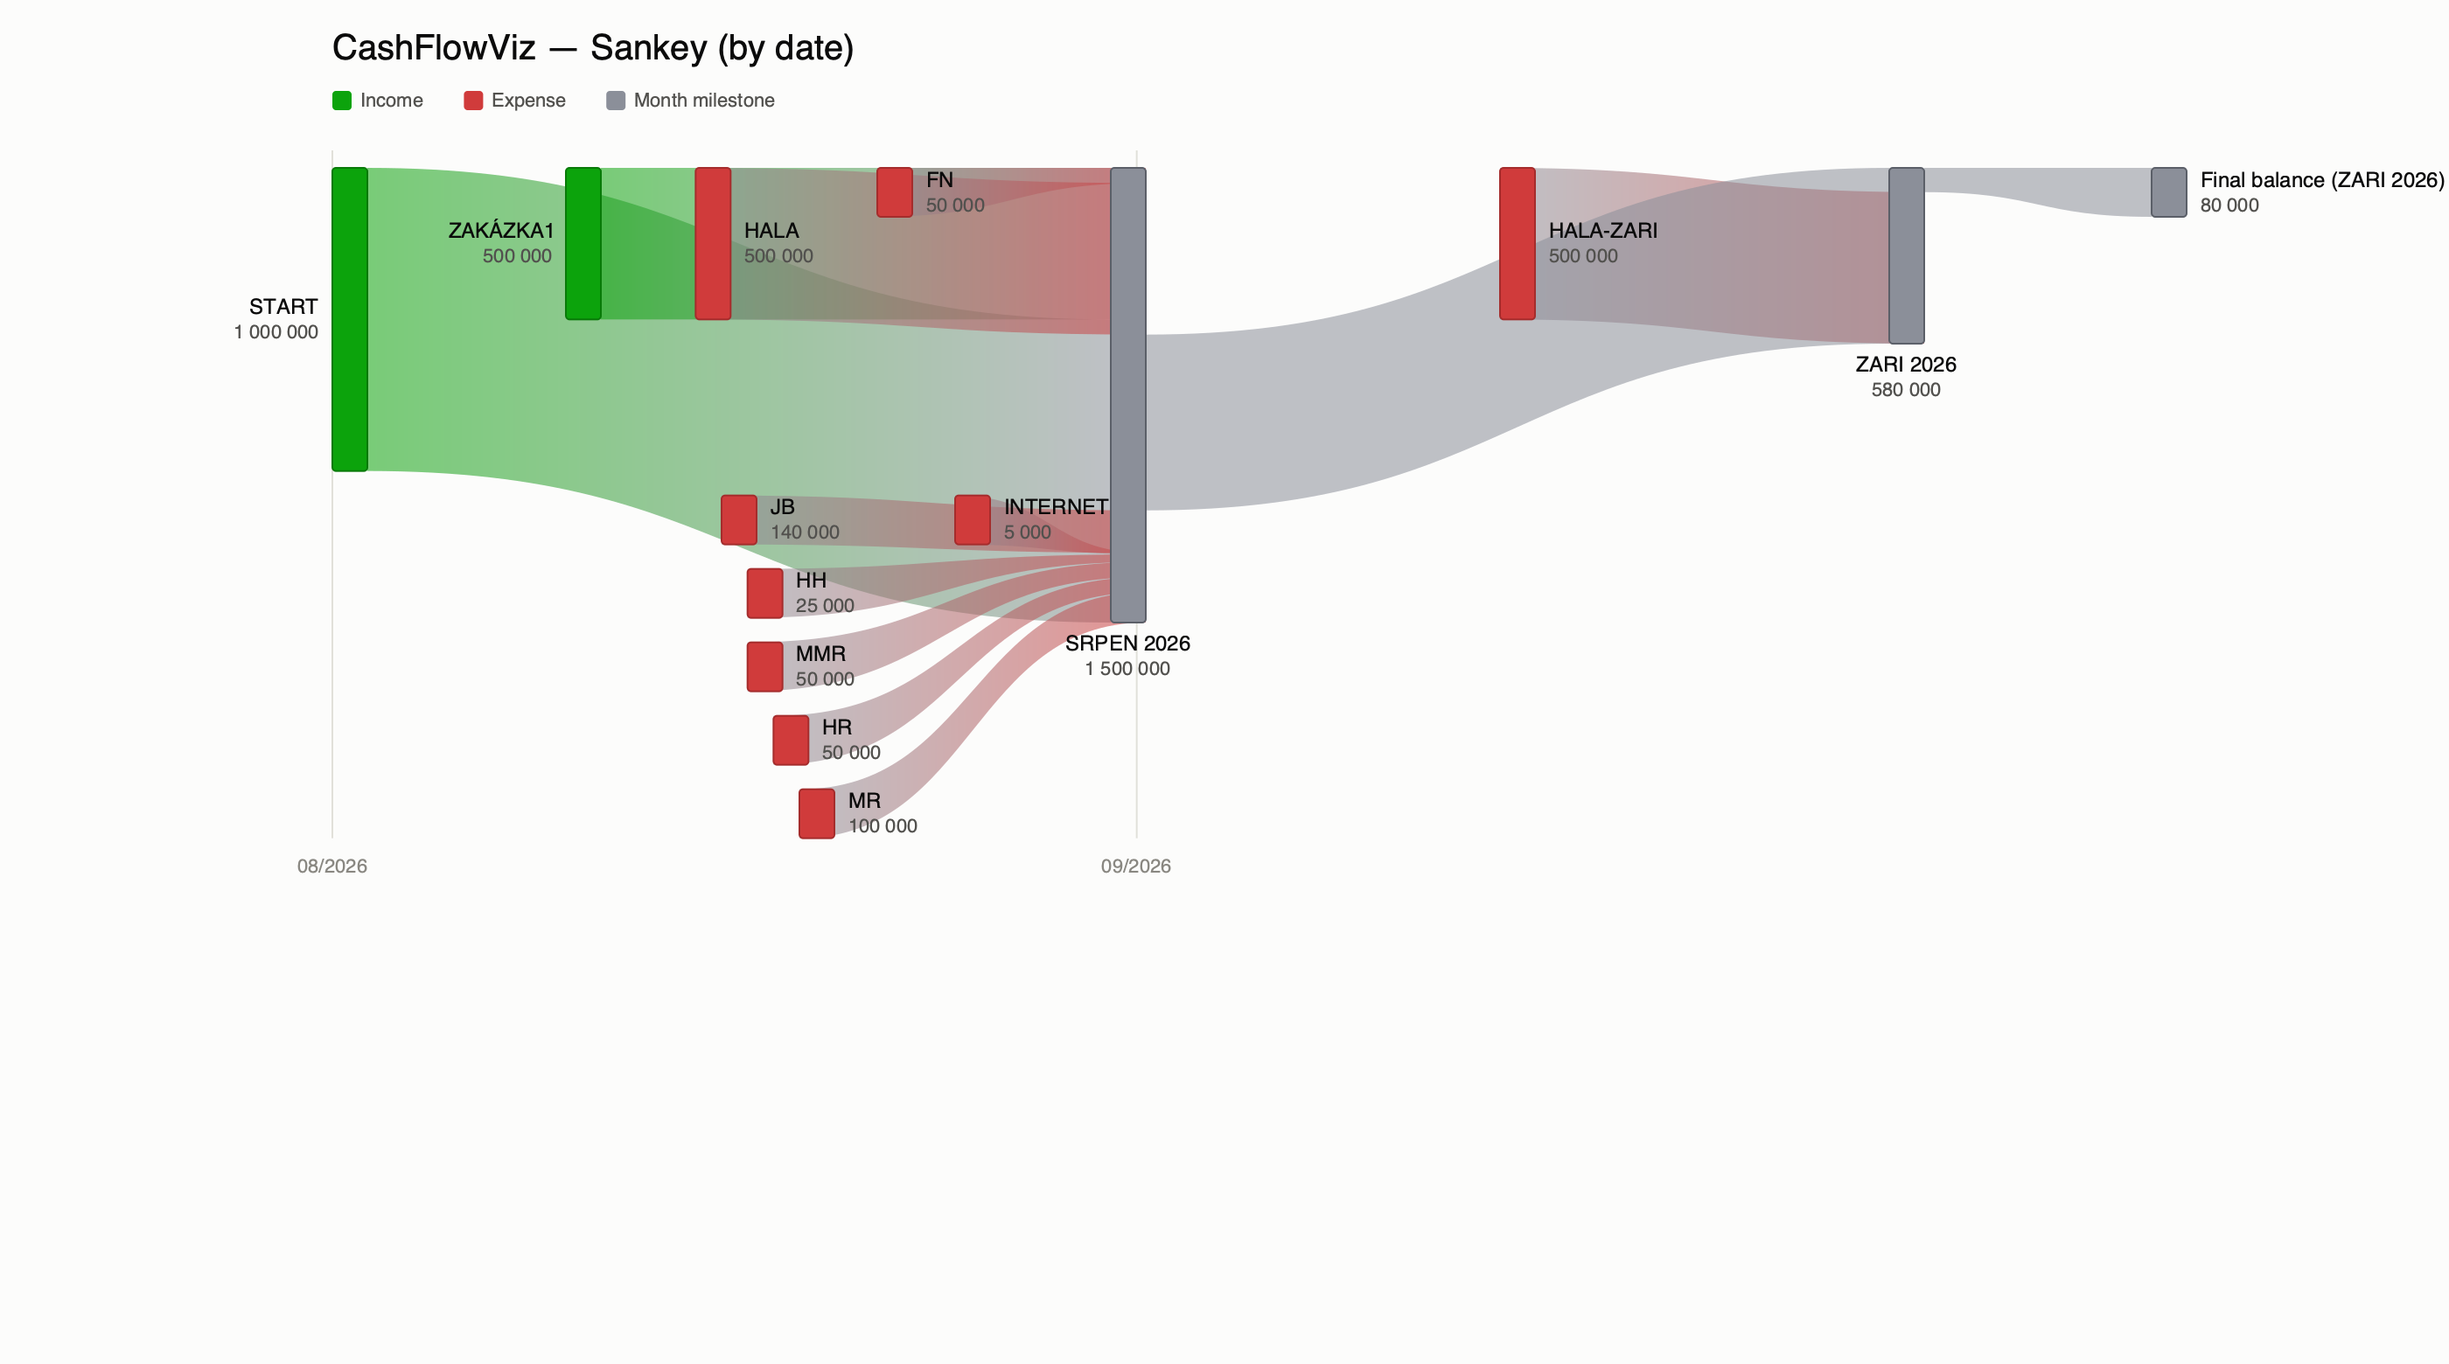
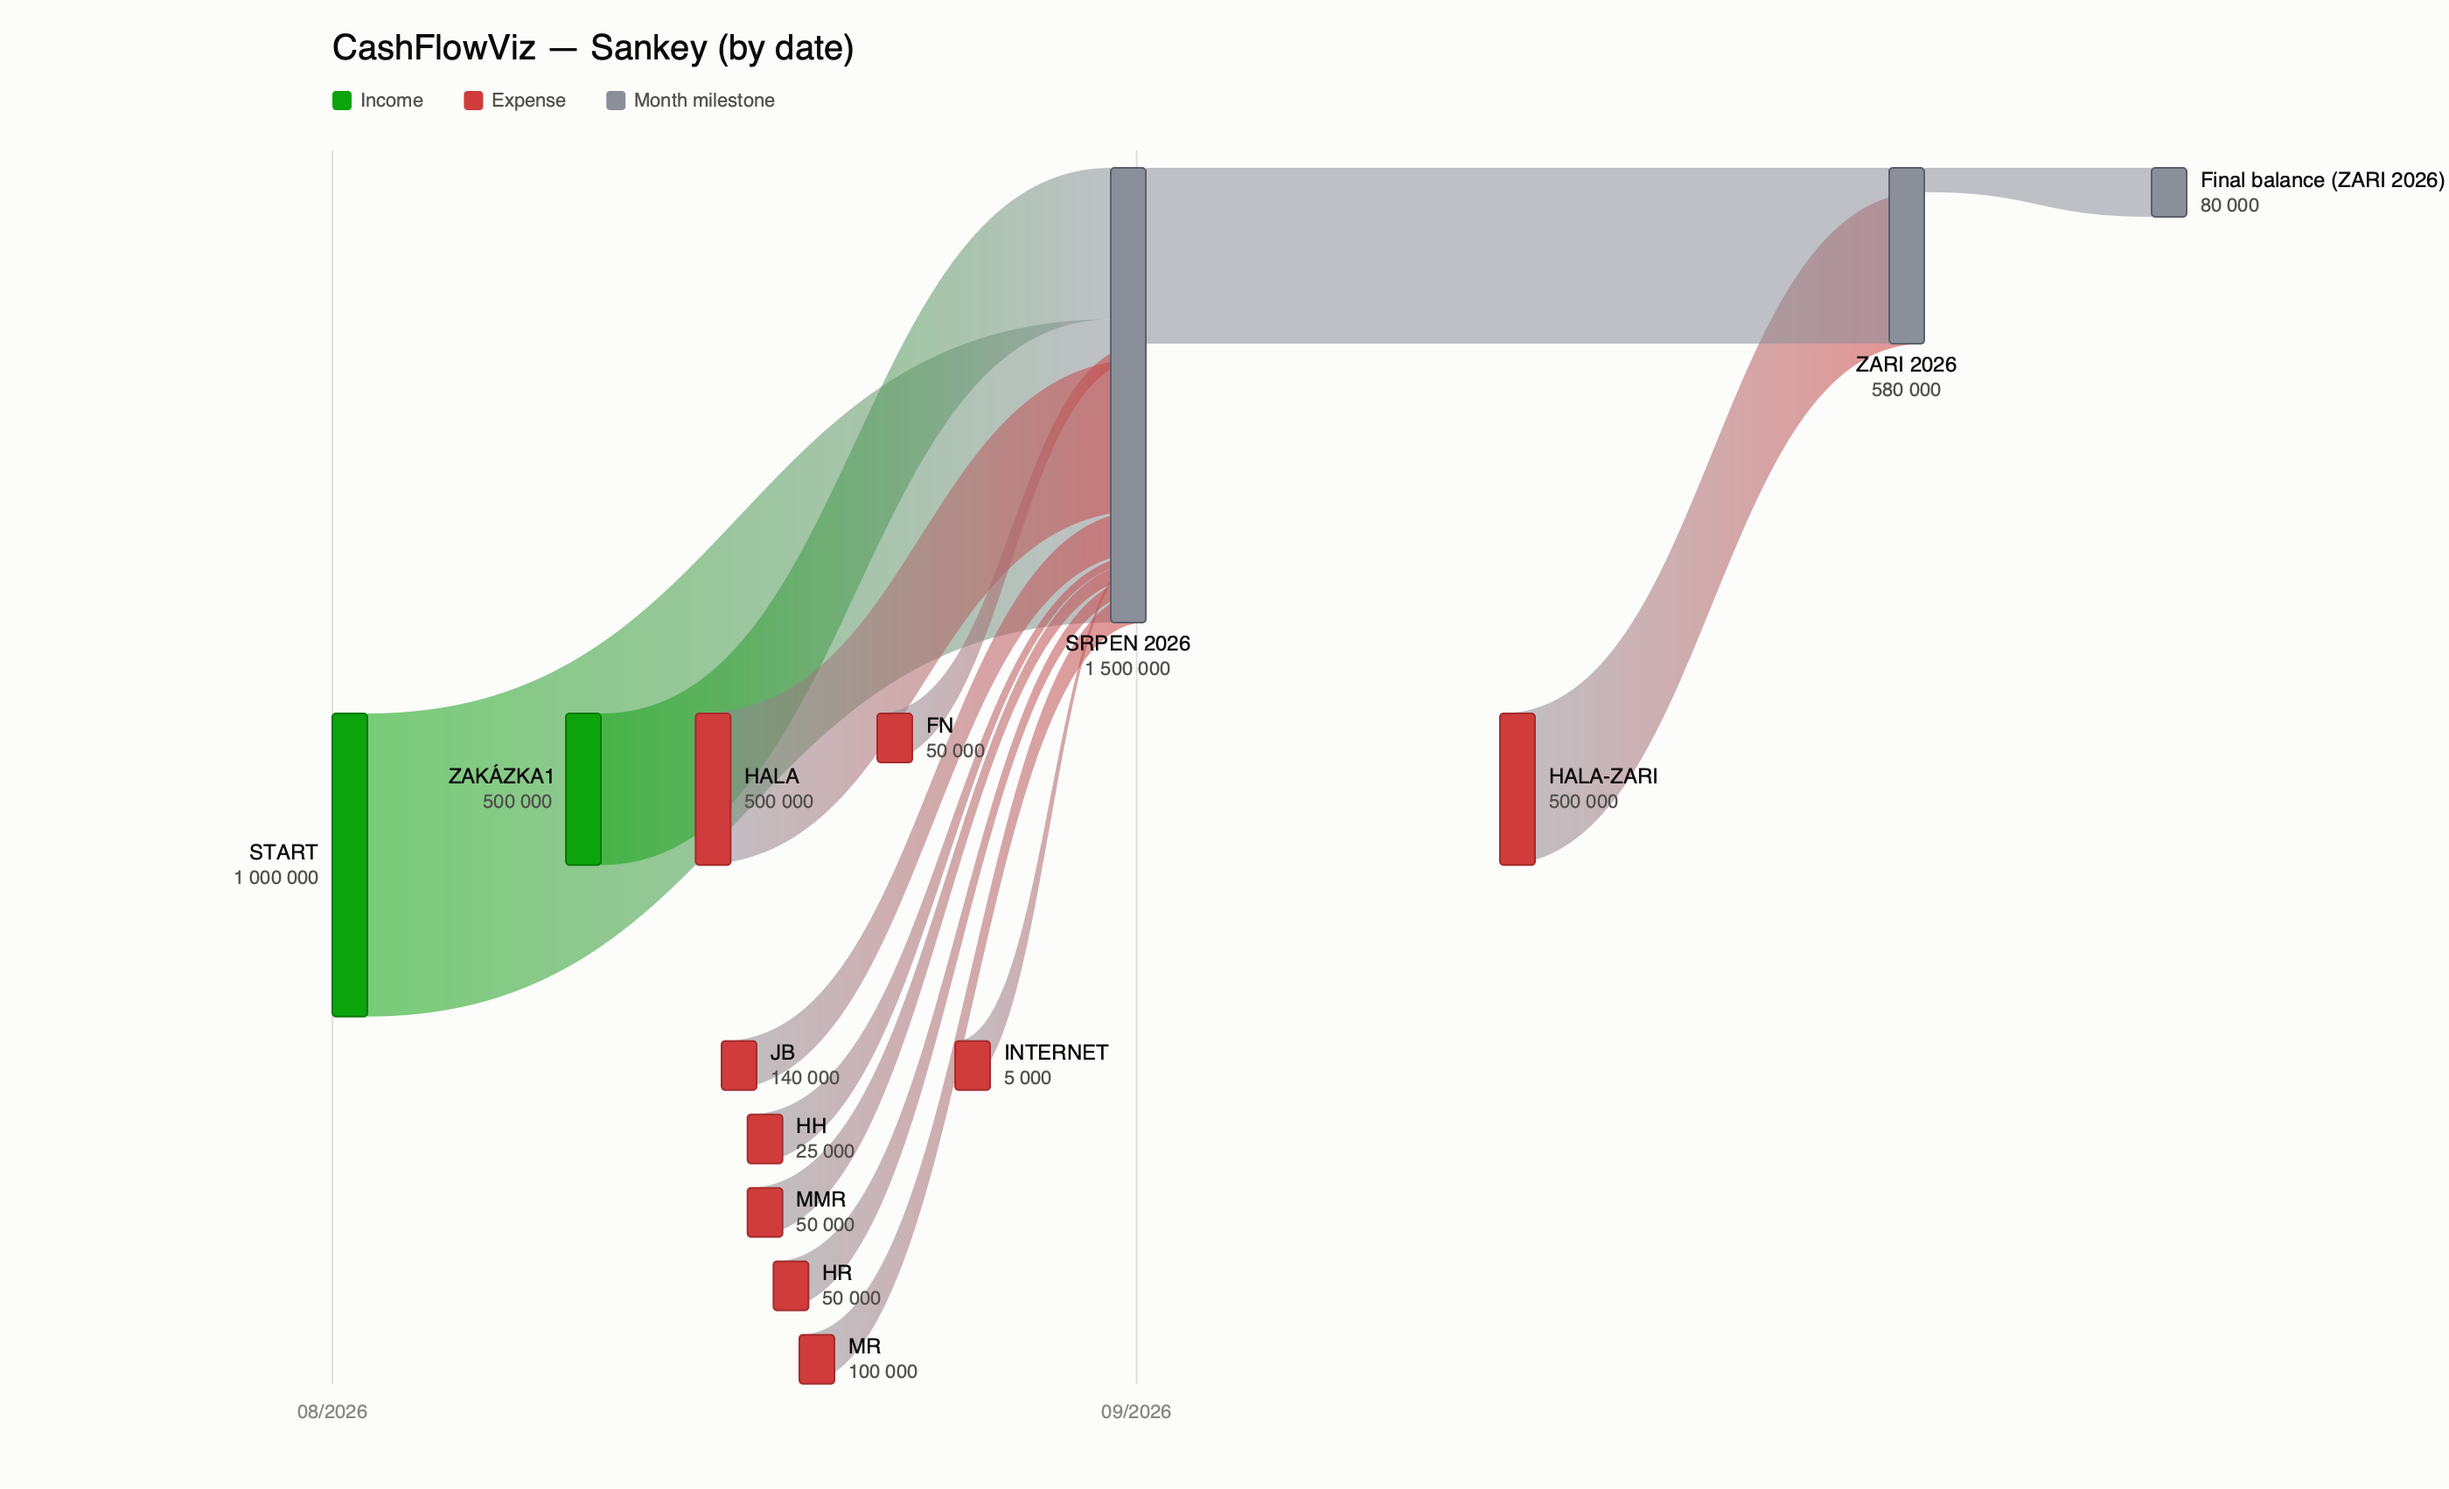
Fix hub label overlapping the next lane in --by-date mode
The lane-height reservation used each node's bar height only, but a
month hub's 2-line label sits entirely below its bar (unlike source/sink
labels, which sit beside theirs and fit within the bar height). That
meant the next lane could start right where the hub's label was drawn,
producing direct text-on-text overlap whenever a transaction landed close
enough to a month boundary to share the hub's lane.

Reproduced and confirmed the fix against a real multi-income-per-day
test file (PROJ1/PROJ2/INET-ZARI all on 2026-08-10, colliding with the
SRPEN hub which also carries the largest value in the graph).

Changed region(s): [[0.0932, 0.0923, 1.0, 0.9538], [0.1243, 0.0, 0.3418, 0.0923], [0.1243, 0.9231, 0.1554, 0.9538]]

diff --git a/cashflowviz/sankey/render.py b/cashflowviz/sankey/render.py
@@ -46,10 +46,18 @@ DATE_AXIS_WIDTH = 1400
 LANE_GAP_X = 24  # horizontal buffer required between two nodes' footprints before they can share a lane
 TARGET_MAX_BAR_H = 260.0  # date mode: pixel height of the single largest-value node
 TERMINAL_OFFSET = 150  # px placed after the last hub, in date-positioned mode
+HUB_LABEL_BELOW = 38.0  # hub's 2-line label sits entirely below its bar, unlike source/sink's
 
 
 def _min_node_h(node: Node) -> float:
     return MIN_LABELED_NODE_H if node.kind in ("source", "sink", "terminal") else MIN_NODE_H
+
+
+def _lane_reservation_h(node: Node, bar_h: float) -> float:
+    """Vertical space this node needs reserved in its lane, bar plus any part
+    of its label that falls outside the bar's own rectangle (only the hub's
+    label does — it's centered below the bar rather than beside it)."""
+    return bar_h + HUB_LABEL_BELOW if node.kind == "hub" else bar_h
 
 
 @dataclass
@@ -215,7 +223,8 @@ def render_svg(
         lane_count = max(lane_of.values(), default=-1) + 1
         lane_tallest = [0.0] * lane_count
         for n in graph.nodes:
-            lane_tallest[lane_of[n.id]] = max(lane_tallest[lane_of[n.id]], node_h[n.id])
+            reservation = _lane_reservation_h(n, node_h[n.id])
+            lane_tallest[lane_of[n.id]] = max(lane_tallest[lane_of[n.id]], reservation)
 
         lane_y_start = []
         cursor = plot_top
@@ -228,7 +237,7 @@ def render_svg(
             y_top[n.id] = yt
             y_bottom[n.id] = yt + node_h[n.id]
 
-        content_bottom = max(y_bottom.values())
+        content_bottom = max(_lane_reservation_h(n, 0) + y_bottom[n.id] for n in graph.nodes)
         total_height = max(height, content_bottom + margins.bottom)
     else:
         # --- fixed categorical columns ---
